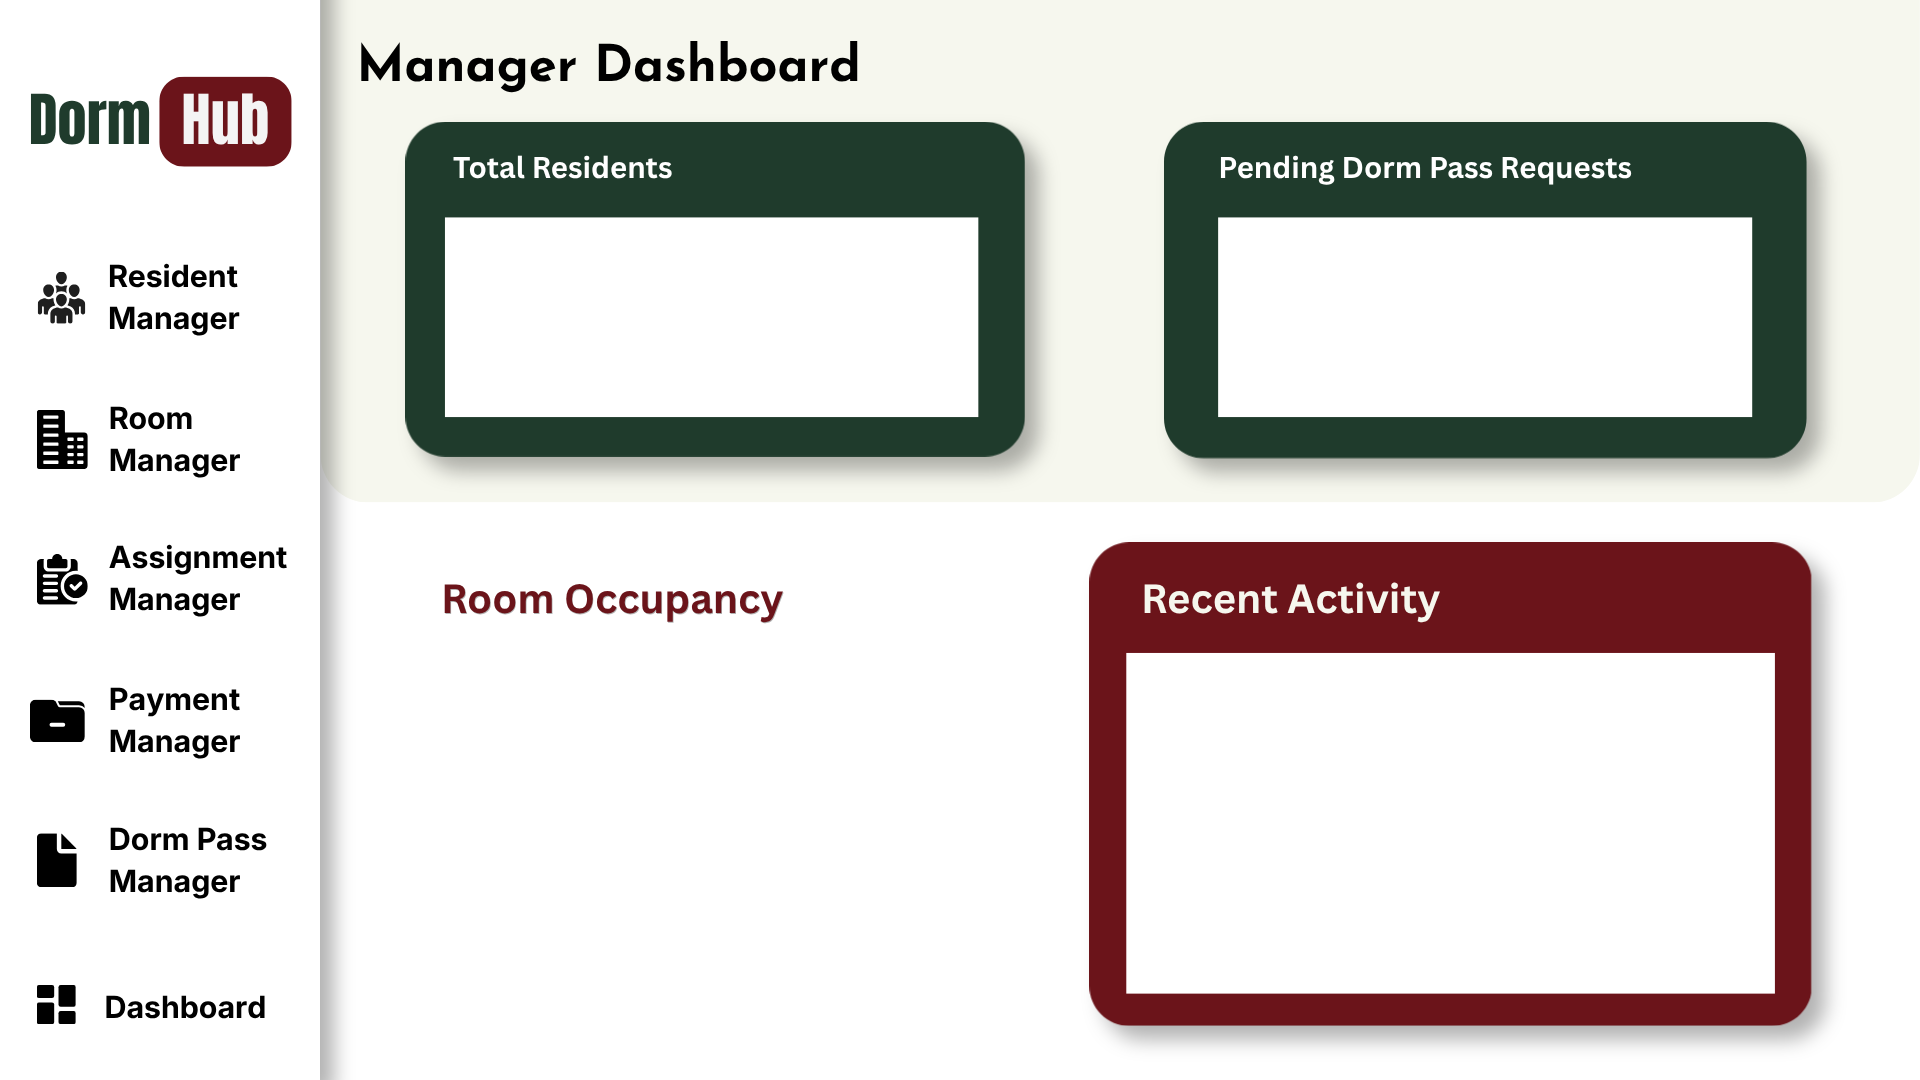
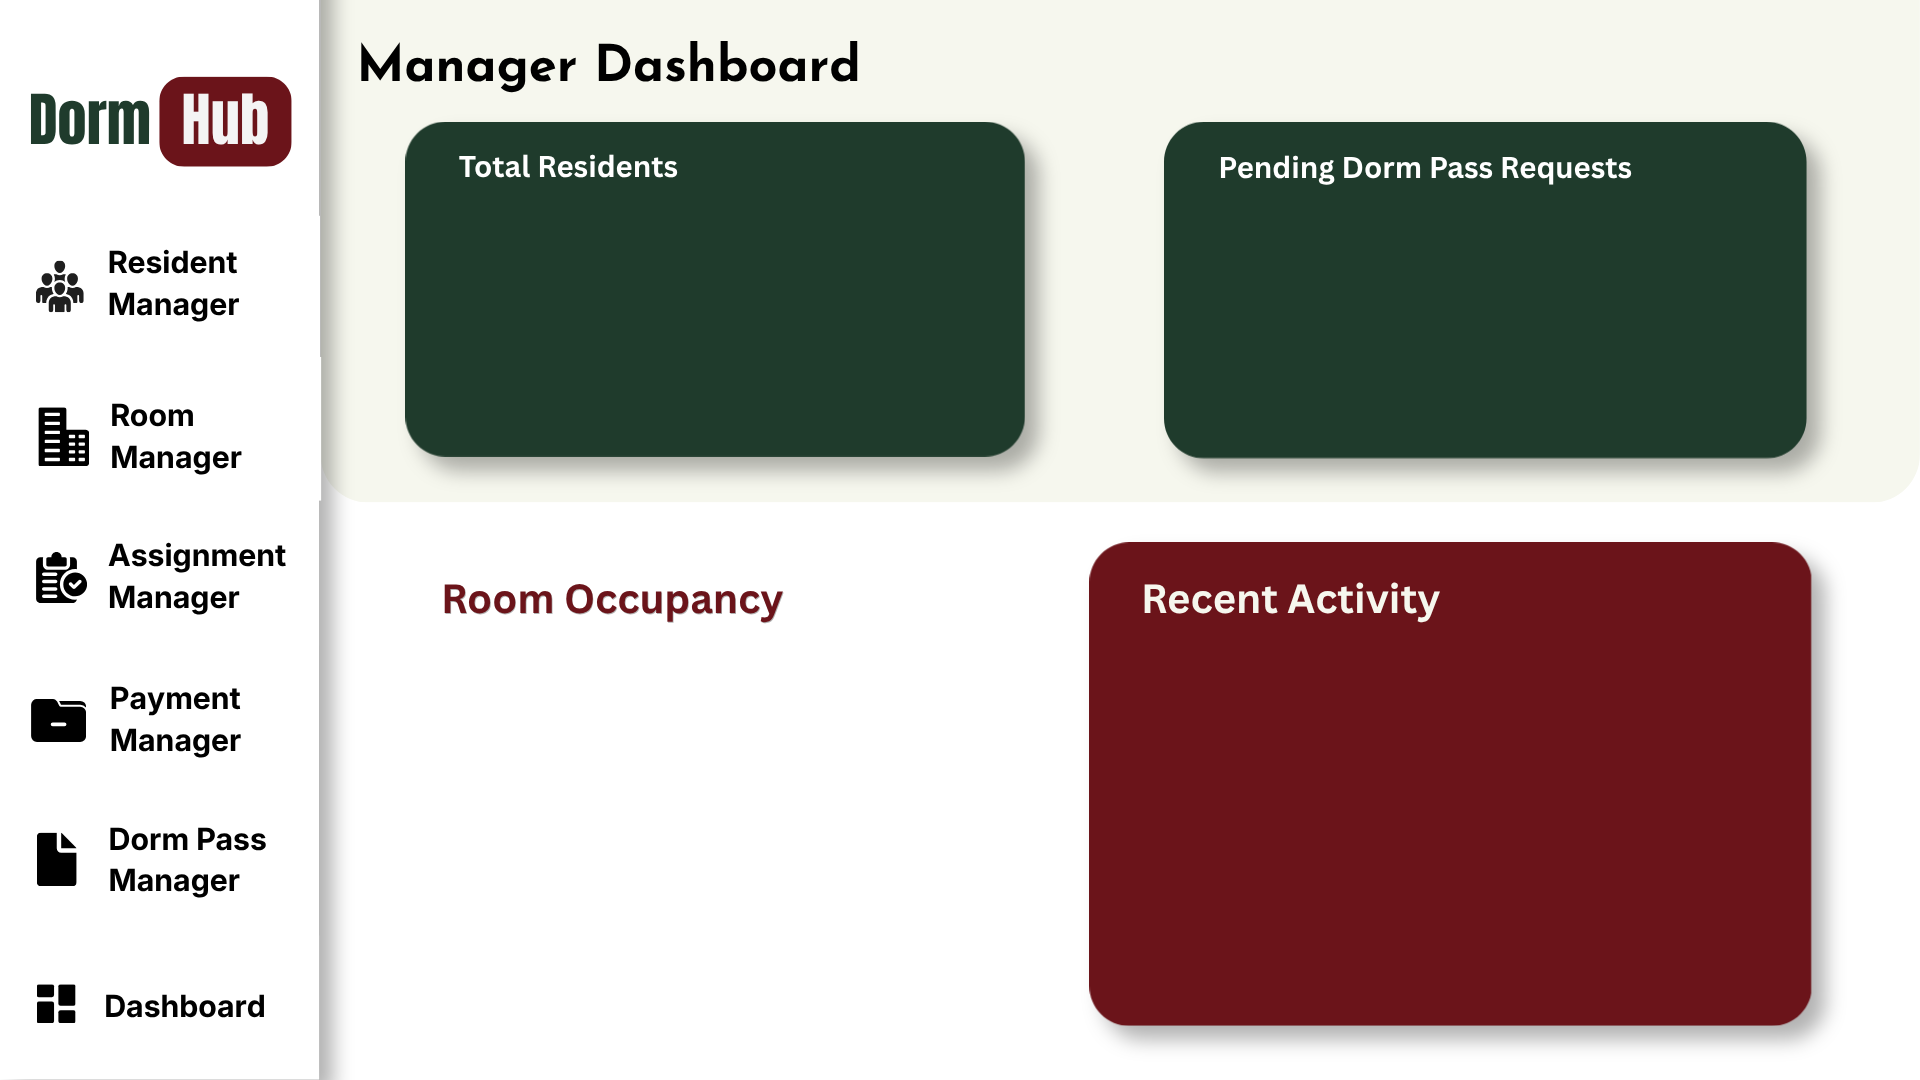
modified gui dshb

diff --git a/src/main/java/com/dormhub/view/ContentPanel.java b/src/main/java/com/dormhub/view/ContentPanel.java
@@ -167,15 +167,15 @@ public class ContentPanel extends JPanel {
         TR.setLayout(new BorderLayout());
         TR.setBorder(new EmptyBorder(4, 8, 4, 8));
 
-        PDPR.setBounds((int) 1218.1, 230, 534, 145);
+        PDPR.setBounds((int) 1218.1, (int) 198.1, 535, 240);
         PDPR.setOpaque(true);
-        PDPR.setBackground(Color.WHITE);
+        PDPR.setBackground(new Color(0, 0, 0, 0));
         PDPR.setLayout(new BorderLayout());
         PDPR.setBorder(new EmptyBorder(4, 8, 4, 8));
 
-        RA.setBounds((int) 1126.2, 630, 649, 250);
+        RA.setBounds((int) 1126.2, 630, 649, 373);
         RA.setOpaque(true);
-        RA.setBackground(Color.WHITE);
+        RA.setBackground(new Color(0, 0, 0, 0));
         RA.setLayout(new BorderLayout());
         RA.setBorder(new EmptyBorder(4, 8, 4, 8));
 
@@ -273,7 +273,6 @@ public class ContentPanel extends JPanel {
     }
 
     // ── PDPR: Pending Dorm Pass Requests ──────────────────────────────────
-
     private void buildPendingDormPassPanel() {
         List<DormPass> pending = new ArrayList<>();
         for (DormPass dp : _dashDormPasses) {
@@ -287,41 +286,70 @@ public class ContentPanel extends JPanel {
             if (b.getDateApplied() == null) return -1;
             return b.getDateApplied().compareTo(a.getDateApplied());
         });
-        List<DormPass> shown = pending.subList(0, Math.min(4, pending.size()));
 
+        // --- List ---
         JPanel list = new JPanel();
         list.setOpaque(false);
         list.setLayout(new BoxLayout(list, BoxLayout.Y_AXIS));
 
-        if (shown.isEmpty()) {
+        if (pending.isEmpty()) {
             JLabel none = new JLabel("No pending requests", SwingConstants.CENTER);
             none.setFont(new Font("Arial", Font.ITALIC, 13));
             none.setForeground(TEXT_MUTED);
             none.setAlignmentX(Component.CENTER_ALIGNMENT);
             list.add(none);
         } else {
-            for (DormPass dp : shown) {
+            for (DormPass dp : pending) {
                 list.add(buildDormPassRow(dp));
-                list.add(Box.createVerticalStrut(3));
-            }
-            if (pending.size() > 4) {
-                JLabel more = new JLabel("+" + (pending.size() - 4) + " more pending\u2026");
-                more.setFont(new Font("Arial", Font.ITALIC, 11));
-                more.setForeground(TEXT_MUTED);
-                more.setAlignmentX(Component.LEFT_ALIGNMENT);
-                list.add(more);
+                list.add(Box.createVerticalStrut(8));
             }
         }
 
-        JPanel countBar = new JPanel(new FlowLayout(FlowLayout.LEFT, 6, 2));
+        Color dashBg = new Color(31, 59, 44);
+
+        list.setOpaque(true);
+        list.setBackground(dashBg);
+
+        JPanel listWrapper = new JPanel(new BorderLayout());
+        listWrapper.setOpaque(false);
+        listWrapper.add(list, BorderLayout.NORTH);
+
+        listWrapper.setOpaque(true);
+        listWrapper.setBackground(dashBg);
+
+
+        JScrollPane listScrollPane = new JScrollPane(listWrapper) {
+            @Override
+            public void paint(Graphics g) {
+                g.setColor(getBackground());
+                g.fillRect(0, 0, getWidth(), getHeight());
+                super.paint(g);
+            }
+        };
+        listScrollPane.getViewport().setScrollMode(JViewport.SIMPLE_SCROLL_MODE);
+        listScrollPane.setOpaque(true);
+        listScrollPane.setBackground(dashBg);
+        listScrollPane.getViewport().setOpaque(true);
+        listScrollPane.getViewport().setBackground(dashBg);
+
+
+        // --- Count bar pinned to bottom ---
+        JPanel countBar = new JPanel(new FlowLayout(FlowLayout.LEFT, 0, 2));
         countBar.setOpaque(false);
+        countBar.setBorder(new EmptyBorder(10, 0, 0, 0));
+        countBar.setPreferredSize(new Dimension(0, 30));
         JLabel countLbl = new JLabel("Total pending: " + pending.size());
-        countLbl.setFont(new Font("Arial", Font.BOLD, 12));
-        countLbl.setForeground(pending.isEmpty() ? new Color(39, 174, 96) : new Color(192, 57, 43));
+        countLbl.setFont(new Font("Arial", Font.BOLD, 15));
+        countLbl.setForeground(pending.isEmpty() ? new Color(107, 20, 26) : new Color(255, 255, 255));
         countBar.add(countLbl);
 
-        PDPR.add(list, BorderLayout.CENTER);
+        // --- Clear and rebuild PDPR ---
+        PDPR.removeAll();
+        PDPR.setLayout(new BorderLayout());
+        PDPR.add(listScrollPane, BorderLayout.CENTER);
         PDPR.add(countBar, BorderLayout.SOUTH);
+        PDPR.revalidate();
+        PDPR.repaint();
     }
 
     private JPanel buildDormPassRow(DormPass dp) {
@@ -332,15 +360,15 @@ public class ContentPanel extends JPanel {
             BorderFactory.createLineBorder(new Color(220, 220, 220), 1),
             new EmptyBorder(3, 6, 3, 6)
         ));
-        row.setMaximumSize(new Dimension(Integer.MAX_VALUE, 34));
+        row.setMaximumSize(new Dimension(Integer.MAX_VALUE, 140));
 
         JLabel badge = new JLabel(dp.getType() == null ? "\u2014" : dp.getType());
-        badge.setFont(new Font("Arial", Font.BOLD, 10));
+        badge.setFont(new Font("Arial", Font.BOLD, 12));
         badge.setForeground(Color.WHITE);
         badge.setOpaque(true);
-        badge.setBackground(new Color(52, 152, 219));
+        badge.setBackground(new Color(31, 59, 44, 174));
         badge.setBorder(new EmptyBorder(2, 5, 2, 5));
-        badge.setPreferredSize(new Dimension(66, 18));
+        badge.setPreferredSize(new Dimension(80, 18));
         badge.setHorizontalAlignment(SwingConstants.CENTER);
 
         JPanel left = new JPanel(new FlowLayout(FlowLayout.LEFT, 3, 0));
@@ -349,11 +377,11 @@ public class ContentPanel extends JPanel {
 
         String dest = dp.getDestination() == null || dp.getDestination().isBlank() ? "" : " \u2192 " + dp.getDestination();
         JLabel info = new JLabel("Resident #" + dp.getResidentId() + dest);
-        info.setFont(new Font("Arial", Font.PLAIN, 12));
+        info.setFont(new Font("Arial", Font.PLAIN, 15));
         info.setForeground(Color.BLACK);
 
         JLabel date = new JLabel(dp.getDateApplied() == null ? "" : dp.getDateApplied().toString());
-        date.setFont(new Font("Arial", Font.PLAIN, 10));
+        date.setFont(new Font("Arial", Font.ITALIC, 13));
         date.setForeground(TEXT_MUTED);
 
         row.add(left,  BorderLayout.WEST);
@@ -370,48 +398,77 @@ public class ContentPanel extends JPanel {
         for (Payment p : _dashPayments) {
             if (p.getPaymentDate() != null) {
                 events.add(new ActivityItem(p.getPaymentDate(),
-                    "Payment \u20b1" + String.format("%.0f", p.getAmount()) + " \u2014 Resident #" + p.getResidentId(),
-                    "\ud83d\udcb3", new Color(46, 204, 113)));
+                        "Payment \u20b1" + String.format("%.0f", p.getAmount()) + " \u2014 Resident #" + p.getResidentId(),
+                        "\ud83d\udcb3", new Color(43, 112, 0)));
             }
         }
         for (RoomAssignment a : _dashAssignments) {
             if (a.getDateAssigned() != null)
                 events.add(new ActivityItem(a.getDateAssigned(),
-                    "Resident #" + a.getResidentId() + " assigned to Room " + a.getRoomId(),
-                    "\ud83c\udfe0", new Color(52, 152, 219)));
+                        "Resident #" + a.getResidentId() + " assigned to Room " + a.getRoomId(),
+                        "\ud83c\udfe0", new Color(81, 190, 21)));
             if (a.getDateVacated() != null)
                 events.add(new ActivityItem(a.getDateVacated(),
-                    "Resident #" + a.getResidentId() + " vacated Room " + a.getRoomId(),
-                    "\ud83d\udce4", new Color(231, 76, 60)));
+                        "Resident #" + a.getResidentId() + " vacated Room " + a.getRoomId(),
+                        "\ud83d\udce4", new Color(181, 208, 2)));
         }
         for (DormPass dp : _dashDormPasses) {
             if (dp.getDateApplied() != null)
                 events.add(new ActivityItem(dp.getDateApplied(),
-                    "Dorm pass applied \u2014 Resident #" + dp.getResidentId(),
-                    "\ud83d\udccb", new Color(155, 89, 182)));
+                        "Dorm pass applied \u2014 Resident #" + dp.getResidentId(),
+                        "\ud83d\udccb", new Color(224, 182, 3)));
         }
 
         events.sort((a, b) -> b.date.compareTo(a.date));
-        List<ActivityItem> shown = events.subList(0, Math.min(7, events.size()));
+        List<ActivityItem> shown = new ArrayList<>(events); // show all
+
+        Color dashBg = new Color(107, 20, 26);
 
         JPanel list = new JPanel();
-        list.setOpaque(false);
+        list.setOpaque(true);
+        list.setBackground(dashBg);
         list.setLayout(new BoxLayout(list, BoxLayout.Y_AXIS));
 
         if (shown.isEmpty()) {
             JLabel none = new JLabel("No recent activity", SwingConstants.CENTER);
-            none.setFont(new Font("Arial", Font.ITALIC, 13));
+            none.setFont(new Font("Arial", Font.ITALIC, 15));
             none.setForeground(TEXT_MUTED);
             none.setAlignmentX(Component.CENTER_ALIGNMENT);
             list.add(none);
         } else {
             for (ActivityItem item : shown) {
                 list.add(buildActivityRow(item));
-                list.add(Box.createVerticalStrut(3));
+                list.add(Box.createVerticalStrut(8));
             }
         }
 
-        RA.add(list, BorderLayout.CENTER);
+        JPanel listWrapper = new JPanel(new BorderLayout());
+        listWrapper.setOpaque(true);
+        listWrapper.setBackground(dashBg);
+        listWrapper.add(list, BorderLayout.NORTH);
+
+        JScrollPane scrollPane = new JScrollPane(listWrapper) {
+            @Override
+            public void paint(Graphics g) {
+                g.setColor(getBackground());
+                g.fillRect(0, 0, getWidth(), getHeight());
+                super.paint(g);
+            }
+        };
+        scrollPane.setOpaque(true);
+        scrollPane.setBackground(dashBg);
+        scrollPane.getViewport().setOpaque(true);
+        scrollPane.getViewport().setBackground(dashBg);
+        scrollPane.getViewport().setScrollMode(JViewport.SIMPLE_SCROLL_MODE);
+        scrollPane.setBorder(null);
+        scrollPane.setHorizontalScrollBarPolicy(ScrollPaneConstants.HORIZONTAL_SCROLLBAR_NEVER);
+        scrollPane.setVerticalScrollBarPolicy(ScrollPaneConstants.VERTICAL_SCROLLBAR_AS_NEEDED);
+
+        RA.removeAll();
+        RA.setLayout(new BorderLayout());
+        RA.add(scrollPane, BorderLayout.CENTER);
+        RA.revalidate();
+        RA.repaint();
     }
 
     private JPanel buildActivityRow(ActivityItem item) {
@@ -422,18 +479,18 @@ public class ContentPanel extends JPanel {
             BorderFactory.createMatteBorder(0, 3, 0, 0, item.color),
             new EmptyBorder(4, 6, 4, 6)
         ));
-        row.setMaximumSize(new Dimension(Integer.MAX_VALUE, 32));
+        row.setMaximumSize(new Dimension(Integer.MAX_VALUE, 35));
 
         JLabel icon = new JLabel(item.icon);
         icon.setFont(new Font("Segoe UI Emoji", Font.PLAIN, 13));
-        icon.setPreferredSize(new Dimension(20, 20));
+        icon.setPreferredSize(new Dimension(28, 20));
 
         JLabel label = new JLabel(item.label);
-        label.setFont(new Font("Arial", Font.PLAIN, 12));
+        label.setFont(new Font("Arial", Font.PLAIN, 14));
         label.setForeground(Color.BLACK);
 
         JLabel date = new JLabel(item.date.toString());
-        date.setFont(new Font("Arial", Font.PLAIN, 10));
+        date.setFont(new Font("Arial", Font.PLAIN, 12));
         date.setForeground(TEXT_MUTED);
 
         row.add(icon,  BorderLayout.WEST);